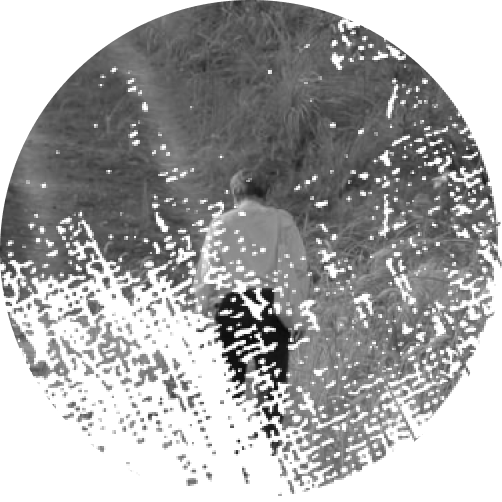
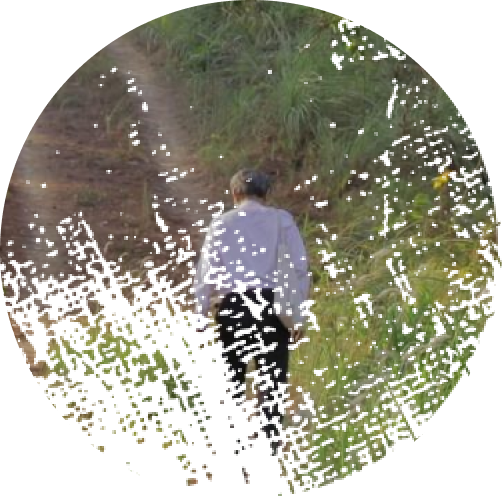
Add hero animation

diff --git a/src/components/landing/hero.svelte b/src/components/landing/hero.svelte
@@ -1,7 +1,20 @@
 <script lang="ts">
-	import { createEventDispatcher } from 'svelte';
+	import { createEventDispatcher, onDestroy, onMount } from 'svelte';
 
 	const images = ['Mr. Zero', 'Letter to san Zaw Htway', 'Ferris Wheel', 'Red Aninsri'];
+	const FOCUS_DURATION = 2000;
+
+	let focusImageIndex = 0;
+	let focusInterval: number;
+
+	onMount(() => {
+		focusInterval = setInterval(() => {
+			focusImageIndex =
+				(focusImageIndex + 1 + Math.floor(Math.random() * (images.length - 1))) % images.length;
+		}, FOCUS_DURATION);
+	});
+
+	onDestroy(() => clearInterval(focusInterval));
 
 	const dispatch = createEventDispatcher();
 </script>
@@ -33,7 +46,11 @@
 
 		<div class="grid grid-cols-2 grid-rows-4 gap-8 md:(grid-cols-4 grid-rows-2 gap-20)">
 			{#each images as alt, index}
-				<img src="/images/hero/{index + 1}.png" {alt} />
+				<img
+					src="/images/hero/{index + 1}.png"
+					{alt}
+					class="transition duration-1000 filter {index === focusImageIndex ? '' : 'grayscale'}"
+				/>
 			{/each}
 
 			<img src="https://via.placeholder.com/250x250?text=waiting" class="rounded-full" alt="" />
@@ -75,8 +92,12 @@
 	</div>
 
 	<div class="bg-wheat absolute inset-0 -z-1 overflow-hidden">
-		<div class="bg-ring w-70vw h-70vw -left-20vw -top-10vh md:(w-50vw h-50vw -left-10vw)" />
-		<div class="bg-ring w-120vw h-120vw -right-50vw top-40vh md:(w-70vw h-70vw -right-10vw)" />
+		<div
+			class="bg-ring w-70vw h-70vw -left-20vw -top-10vh md:(w-50vw h-50vw -left-10vw) animate-pulse"
+		/>
+		<div
+			class="bg-ring w-120vw h-120vw -right-50vw top-40vh md:(w-70vw h-70vw -right-10vw) animate-pulse"
+		/>
 	</div>
 </div>
 
